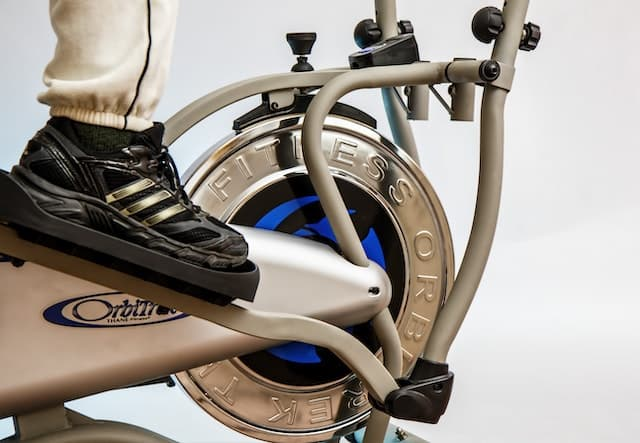
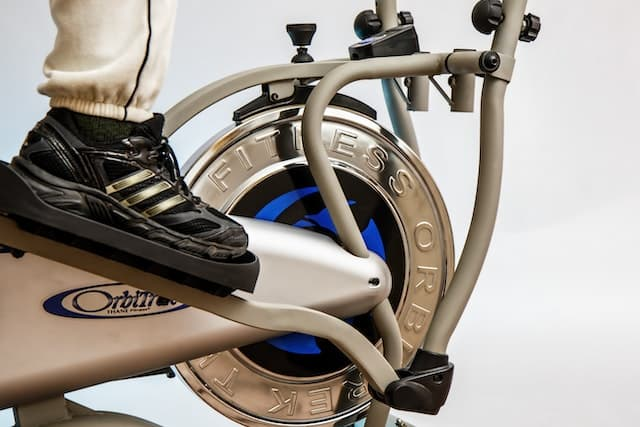
resize: images

diff --git a/index.html b/index.html
@@ -26,7 +26,6 @@
                 <ul class="nav-links">
                     <li><a href="#about">About</a></li>
                     <li><a href="#sessions">Sessions</a></li>
-                    <li><a href="#testimonial">Testimonial</a></li>
                     <li><a href="#registration">Registration</a></li>
                 </ul>
             </nav>
@@ -52,15 +51,15 @@
         <section id="sessions" class="sessions-grid">
             <h2>Sessions</h2>
             <div class="container">
-                <articles class="sessions-column">
+                <article class="sessions-column">
                     <picture class="sessions-image">
                         <source srcset="./imgs/pexels-dom-j-45058.avif" type="image/avif">
-                        <img src="./imgs/pexels-dom-j-45058 (1).jpg" width="640" height="437" loading="lazy" alt="hand grip">
+                        <img src="./imgs/pexels-dom-j-45058 (1).jpg" width="640" height="427" loading="lazy" alt="hand grip">
                     </picture>
                     <h3>Strength Training</h3>
-                    <p>Hand grips are a good way to start and will increase the power of your hand and wrist.</p>
-                    <p><a href="#" class="btn">GET STARTED</a></p>
-                </articles>
+                    <p>Lorem ipsum, dolor sit amet consectetur adipisicing elit. Iusto, odio!</p>
+                    <p class="paragraph"><a href="#" class="btn">GET STARTED</a></p>
+                </article>
                 <!--END OF FIRST SESSION-->
                 <article class="sessions-column">
                     <picture class="sessions-image">
@@ -68,20 +67,18 @@
                         <img src="./imgs/pexels-ivan-samkov-4164658 (1).jpg" width="640" height="427" loading="lazy" alt="person standing on a cube">
                     </picture>
                     <h3>Cross Fit</h3>
-                    <p>Strength and conditioning workout, that is made up of functional movement, performed at a high intensity level.</p>
-                    <p><a href="#" class="btn">GET STARTED</a></p>
+                    <p>Lorem ipsum, dolor sit amet consectetur adipisicing elit. Iusto, odio!</p>
+                    <p class="paragraph"><a href="#" class="btn">GET STARTED</a></p>
                 </article>
                 <!--END OF SECOND SESSION-->
                 <article class="sessions-column">
                     <picture class="sessions-image">
                         <source srcset="./imgs/pexels-pixabay-47084.avif" type="image/avif">
-                        <img src="./imgs/pexels-pixabay-47084 (1).jpg" width="640" height="443" loading="lazy" alt="elliptical trainer">
+                        <img src="./imgs/pexels-pixabay-47084 (1).jpg" width="640" height="427" loading="lazy" alt="elliptical trainer">
                     </picture>
                     <h3>Elliptical Trainer</h3>
-                    <p>A good way to quickly strength train your glutes, thighs, hip flexors and both your lower and upper body.
-                        Regular use can also incrase, your stamina
-                    </p>
-                    <p><a href="#" class="btn">GET STARTED</a></p>
+                    <p>Lorem ipsum, dolor sit amet consectetur adipisicing elit. Iusto, odio!</p>
+                    <p class="paragraph"><a href="#" class="btn">GET STARTED</a></p>
                 </article>
                 <!--END OF THIRD SESSION-->
                 <article class="sessions-column">
@@ -90,8 +87,8 @@
                         <img src="./imgs/pexels-pixabay-39671 (1).jpg" width="640" height="427" loading="lazy" alt="">
                     </picture>
                     <h3>Light Training</h3>
-                    <p>Decrease your risk for injury, while improving your physique and muscle toning.</p>
-                    <p><a href="#" class="btn">GET STARTED</a></p>
+                    <p>Lorem ipsum, dolor sit amet consectetur adipisicing elit. Iusto, odio!</p>
+                    <p class="paragraph"><a href="#" class="btn">GET STARTED</a></p>
                 </article>
                 <!--END OF FOURTH SESSION-->
             </div>

diff --git a/styles.css b/styles.css
@@ -128,3 +128,26 @@ section[id="sessions"] .btn:hover {
     background-color: var(--color-primary);
     color: var(--color-alternate);
 }
+
+section[id="sessions"] .container {
+    display: grid;
+    gap: 1rem;
+    grid-template-columns: repeat(4, 1fr);
+}
+
+article[class="sessions-column"] {
+    display: flex;
+    flex-direction: column;
+    justify-content: center;
+    text-align: center;
+}
+
+article[class="sessions-column"] .sessions-image {
+    padding: 1rem;
+}
+
+article[class="sessions-column"] .paragraph {
+    align-items: flex-end;
+    padding-top: 1rem;
+
+}
